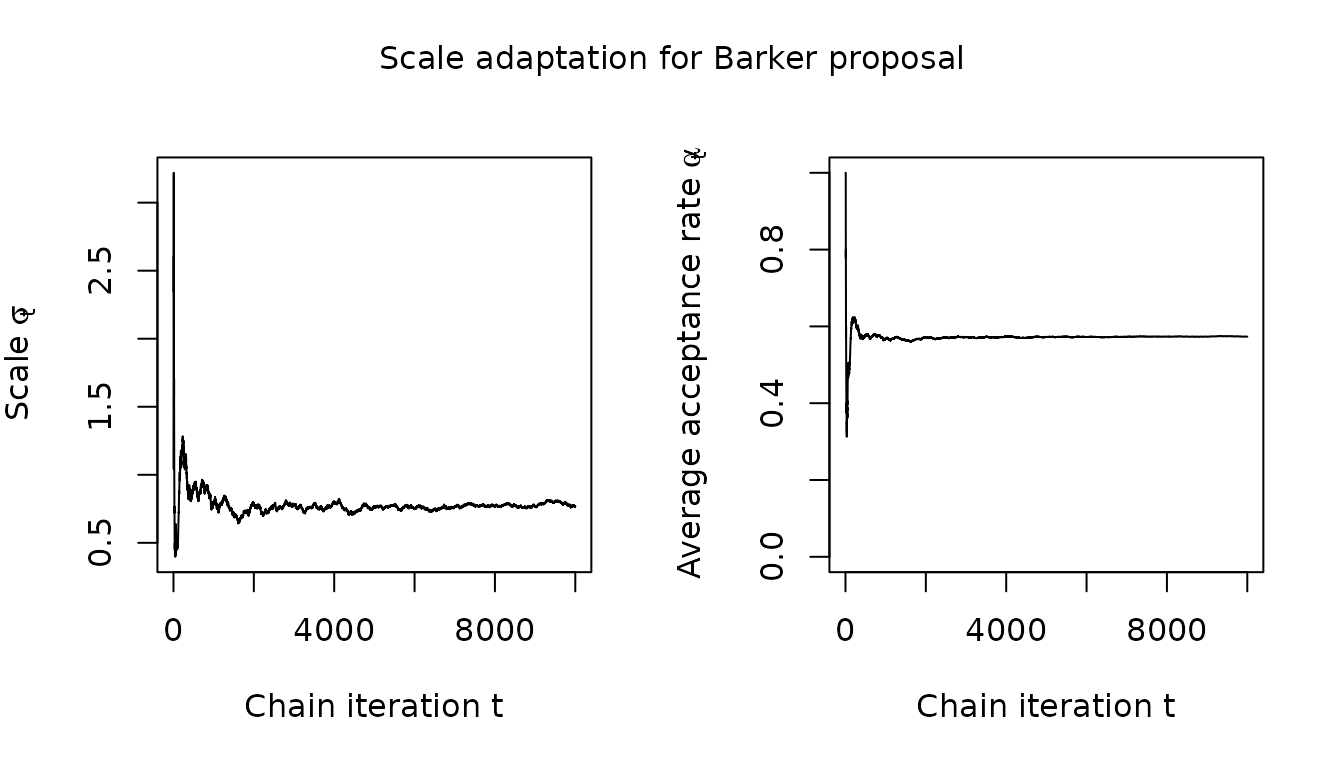
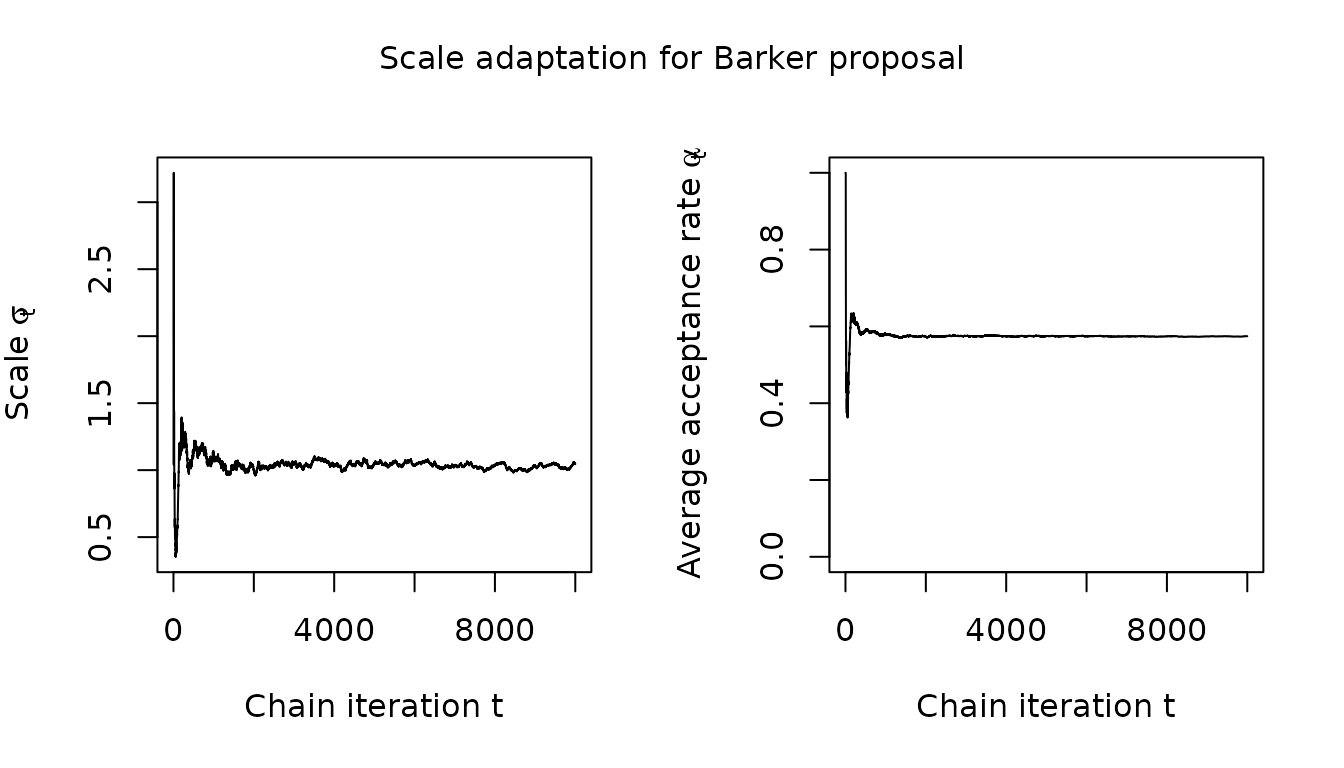
Deploying to gh-pages from @ UCL/rmcmc@4996fa3d6f669b66afa51b1e190640ad4b7b5a02 🚀

diff --git a/articles/barker-proposal.html b/articles/barker-proposal.html
@@ -237,7 +237,7 @@ probability of the main chain iterations as follows:</p>
 <div class="sourceCode" id="cb9"><pre class="downlit sourceCode r">
 <code class="sourceCode R"><span><span class="va">mean_accept_prob</span> <span class="op">&lt;-</span> <span class="fu"><a href="https://rdrr.io/r/base/mean.html" class="external-link">mean</a></span><span class="op">(</span><span class="va">barker_results</span><span class="op">$</span><span class="va">statistics</span><span class="op">[</span>, <span class="st">"accept_prob"</span><span class="op">]</span><span class="op">)</span></span>
 <span><span class="fu"><a href="https://rdrr.io/r/base/cat.html" class="external-link">cat</a></span><span class="op">(</span><span class="fu"><a href="https://rdrr.io/r/base/sprintf.html" class="external-link">sprintf</a></span><span class="op">(</span><span class="st">"Average acceptance probability is %.2f"</span>, <span class="va">mean_accept_prob</span><span class="op">)</span><span class="op">)</span></span>
-<span><span class="co">#&gt; Average acceptance probability is 0.57</span></span></code></pre></div>
+<span><span class="co">#&gt; Average acceptance probability is 0.54</span></span></code></pre></div>
 <p>This is close to the target acceptance rate of 0.574 indicating the
 scale adaptation worked as expected.</p>
 <p>We can also inspect the shape parameter of the proposal to check the
@@ -253,7 +253,7 @@ the (first few dimensions of the) adapted shape from the
 <span>  <span class="fu"><a href="https://rdrr.io/r/base/sprintf.html" class="external-link">sprintf</a></span><span class="op">(</span><span class="st">"True target scales: %s"</span>, <span class="fu"><a href="https://rdrr.io/r/base/toString.html" class="external-link">toString</a></span><span class="op">(</span><span class="va">scales</span><span class="op">[</span><span class="fl">1</span><span class="op">:</span><span class="va">clipped_dimension</span><span class="op">]</span><span class="op">)</span><span class="op">)</span>,</span>
 <span>  sep <span class="op">=</span> <span class="st">"\n"</span></span>
 <span><span class="op">)</span></span>
-<span><span class="co">#&gt; Adapter scale est.: 0.00837397174060859, 0.903666144812827, 0.743247392562424, 0.867223071521973, 0.93934619853388</span></span>
+<span><span class="co">#&gt; Adapter scale est.: 0.00922080029766185, 0.995077611400515, 0.975164196791254, 0.938742004951002, 0.959131700160354</span></span>
 <span><span class="co">#&gt; True target scales: 0.01, 1, 1, 1, 1</span></span></code></pre></div>
 <p>Again adaptation appears to have been successful with the adapted
 shape close to the true target scales.</p>
@@ -287,19 +287,19 @@ of summary statistics and diagnostic measures for each variable.</p>
 <div class="sourceCode" id="cb12"><pre class="downlit sourceCode r">
 <code class="sourceCode R"><span><span class="fu"><a href="https://mc-stan.org/posterior/reference/draws_summary.html" class="external-link">summarize_draws</a></span><span class="op">(</span><span class="va">barker_results</span><span class="op">$</span><span class="va">traces</span><span class="op">)</span></span>
 <span><span class="co">#&gt; <span style="color: #949494;"># A tibble: 11 × 10</span></span></span>
-<span><span class="co">#&gt;    variable         mean   median      sd     mad      q5     q95  rhat ess_bulk</span></span>
-<span><span class="co">#&gt;    <span style="color: #949494; font-style: italic;">&lt;chr&gt;</span>           <span style="color: #949494; font-style: italic;">&lt;dbl&gt;</span>    <span style="color: #949494; font-style: italic;">&lt;dbl&gt;</span>   <span style="color: #949494; font-style: italic;">&lt;dbl&gt;</span>   <span style="color: #949494; font-style: italic;">&lt;dbl&gt;</span>   <span style="color: #949494; font-style: italic;">&lt;dbl&gt;</span>   <span style="color: #949494; font-style: italic;">&lt;dbl&gt;</span> <span style="color: #949494; font-style: italic;">&lt;dbl&gt;</span>    <span style="color: #949494; font-style: italic;">&lt;dbl&gt;</span></span></span>
-<span><span class="co">#&gt; <span style="color: #BCBCBC;"> 1</span> position1     2.56<span style="color: #949494;">e</span><span style="color: #BB0000;">-5</span>  8.66<span style="color: #949494;">e</span><span style="color: #BB0000;">-5</span> 0.008<span style="text-decoration: underline;">68</span> 0.008<span style="text-decoration: underline;">92</span> -<span style="color: #BB0000;">0.014</span><span style="color: #BB0000; text-decoration: underline;">6</span>  0.014<span style="text-decoration: underline;">2</span>  1.00     964.</span></span>
-<span><span class="co">#&gt; <span style="color: #BCBCBC;"> 2</span> position2     2.33<span style="color: #949494;">e</span><span style="color: #BB0000;">-2</span>  4.24<span style="color: #949494;">e</span><span style="color: #BB0000;">-2</span> 0.868   0.904   -<span style="color: #BB0000;">1.40</span>    1.46    1.00    <span style="text-decoration: underline;">1</span>031.</span></span>
-<span><span class="co">#&gt; <span style="color: #BCBCBC;"> 3</span> position3     5.41<span style="color: #949494;">e</span><span style="color: #BB0000;">-2</span>  4.50<span style="color: #949494;">e</span><span style="color: #BB0000;">-2</span> 0.843   0.844   -<span style="color: #BB0000;">1.31</span>    1.43    1.00     685.</span></span>
-<span><span class="co">#&gt; <span style="color: #BCBCBC;"> 4</span> position4    -<span style="color: #BB0000;">1.91</span><span style="color: #949494;">e</span><span style="color: #BB0000;">-2</span> -<span style="color: #BB0000;">2.46</span><span style="color: #949494;">e</span><span style="color: #BB0000;">-2</span> 0.879   0.899   -<span style="color: #BB0000;">1.45</span>    1.43    1.00     831.</span></span>
-<span><span class="co">#&gt; <span style="color: #BCBCBC;"> 5</span> position5     2.52<span style="color: #949494;">e</span><span style="color: #BB0000;">-2</span>  2.64<span style="color: #949494;">e</span><span style="color: #BB0000;">-2</span> 0.883   0.909   -<span style="color: #BB0000;">1.42</span>    1.49    1.00    <span style="text-decoration: underline;">1</span>188.</span></span>
-<span><span class="co">#&gt; <span style="color: #BCBCBC;"> 6</span> position6     2.39<span style="color: #949494;">e</span><span style="color: #BB0000;">-2</span>  1.45<span style="color: #949494;">e</span><span style="color: #BB0000;">-2</span> 0.872   0.910   -<span style="color: #BB0000;">1.42</span>    1.45    1.00     717.</span></span>
-<span><span class="co">#&gt; <span style="color: #BCBCBC;"> 7</span> position7     2.02<span style="color: #949494;">e</span><span style="color: #BB0000;">-2</span>  2.62<span style="color: #949494;">e</span><span style="color: #BB0000;">-2</span> 0.844   0.853   -<span style="color: #BB0000;">1.39</span>    1.40    1.00     798.</span></span>
-<span><span class="co">#&gt; <span style="color: #BCBCBC;"> 8</span> position8    -<span style="color: #BB0000;">2.68</span><span style="color: #949494;">e</span><span style="color: #BB0000;">-2</span> -<span style="color: #BB0000;">3.56</span><span style="color: #949494;">e</span><span style="color: #BB0000;">-2</span> 0.852   0.856   -<span style="color: #BB0000;">1.44</span>    1.40    1.00     700.</span></span>
-<span><span class="co">#&gt; <span style="color: #BCBCBC;"> 9</span> position9    -<span style="color: #BB0000;">4.67</span><span style="color: #949494;">e</span><span style="color: #BB0000;">-2</span> -<span style="color: #BB0000;">4.58</span><span style="color: #949494;">e</span><span style="color: #BB0000;">-2</span> 0.870   0.902   -<span style="color: #BB0000;">1.45</span>    1.37    1.00    <span style="text-decoration: underline;">1</span>088.</span></span>
-<span><span class="co">#&gt; <span style="color: #BCBCBC;">10</span> position10   -<span style="color: #BB0000;">3.19</span><span style="color: #949494;">e</span><span style="color: #BB0000;">-2</span> -<span style="color: #BB0000;">4.29</span><span style="color: #949494;">e</span><span style="color: #BB0000;">-2</span> 0.855   0.899   -<span style="color: #BB0000;">1.40</span>    1.36    1.00     927.</span></span>
-<span><span class="co">#&gt; <span style="color: #BCBCBC;">11</span> target_log_… -<span style="color: #BB0000;">3.73</span><span style="color: #949494;">e</span>+0 -<span style="color: #BB0000;">3.58</span><span style="color: #949494;">e</span>+0 1.47    1.45    -<span style="color: #BB0000;">6.43</span>   -<span style="color: #BB0000;">1.62</span>    1.00     994.</span></span>
+<span><span class="co">#&gt;    variable           mean   median     sd    mad      q5     q95  rhat ess_bulk</span></span>
+<span><span class="co">#&gt;    <span style="color: #949494; font-style: italic;">&lt;chr&gt;</span>             <span style="color: #949494; font-style: italic;">&lt;dbl&gt;</span>    <span style="color: #949494; font-style: italic;">&lt;dbl&gt;</span>  <span style="color: #949494; font-style: italic;">&lt;dbl&gt;</span>  <span style="color: #949494; font-style: italic;">&lt;dbl&gt;</span>   <span style="color: #949494; font-style: italic;">&lt;dbl&gt;</span>   <span style="color: #949494; font-style: italic;">&lt;dbl&gt;</span> <span style="color: #949494; font-style: italic;">&lt;dbl&gt;</span>    <span style="color: #949494; font-style: italic;">&lt;dbl&gt;</span></span></span>
+<span><span class="co">#&gt; <span style="color: #BCBCBC;"> 1</span> position1       1.63<span style="color: #949494;">e</span><span style="color: #BB0000;">-4</span>  3.51<span style="color: #949494;">e</span><span style="color: #BB0000;">-4</span> 0.010<span style="text-decoration: underline;">2</span> 0.010<span style="text-decoration: underline;">4</span> -<span style="color: #BB0000;">0.016</span><span style="color: #BB0000; text-decoration: underline;">6</span>  0.016<span style="text-decoration: underline;">9</span>  1.00    <span style="text-decoration: underline;">1</span>197.</span></span>
+<span><span class="co">#&gt; <span style="color: #BCBCBC;"> 2</span> position2      -<span style="color: #BB0000;">3.07</span><span style="color: #949494;">e</span><span style="color: #BB0000;">-2</span> -<span style="color: #BB0000;">9.21</span><span style="color: #949494;">e</span><span style="color: #BB0000;">-3</span> 1.01   0.990  -<span style="color: #BB0000;">1.72</span>    1.62    1.00    <span style="text-decoration: underline;">1</span>405.</span></span>
+<span><span class="co">#&gt; <span style="color: #BCBCBC;"> 3</span> position3       2.22<span style="color: #949494;">e</span><span style="color: #BB0000;">-2</span>  1.54<span style="color: #949494;">e</span><span style="color: #BB0000;">-2</span> 1.01   1.01   -<span style="color: #BB0000;">1.61</span>    1.64    1.00    <span style="text-decoration: underline;">1</span>191.</span></span>
+<span><span class="co">#&gt; <span style="color: #BCBCBC;"> 4</span> position4       2.13<span style="color: #949494;">e</span><span style="color: #BB0000;">-2</span>  1.25<span style="color: #949494;">e</span><span style="color: #BB0000;">-2</span> 1.02   1.04   -<span style="color: #BB0000;">1.68</span>    1.68    1.00    <span style="text-decoration: underline;">1</span>250.</span></span>
+<span><span class="co">#&gt; <span style="color: #BCBCBC;"> 5</span> position5       1.78<span style="color: #949494;">e</span><span style="color: #BB0000;">-2</span>  2.02<span style="color: #949494;">e</span><span style="color: #BB0000;">-2</span> 0.993  1.01   -<span style="color: #BB0000;">1.63</span>    1.62    1.00    <span style="text-decoration: underline;">1</span>370.</span></span>
+<span><span class="co">#&gt; <span style="color: #BCBCBC;"> 6</span> position6      -<span style="color: #BB0000;">2.23</span><span style="color: #949494;">e</span><span style="color: #BB0000;">-2</span> -<span style="color: #BB0000;">3.13</span><span style="color: #949494;">e</span><span style="color: #BB0000;">-2</span> 1.01   0.996  -<span style="color: #BB0000;">1.67</span>    1.65    1.00    <span style="text-decoration: underline;">1</span>157.</span></span>
+<span><span class="co">#&gt; <span style="color: #BCBCBC;"> 7</span> position7       2.99<span style="color: #949494;">e</span><span style="color: #BB0000;">-2</span>  4.19<span style="color: #949494;">e</span><span style="color: #BB0000;">-3</span> 1.00   1.01   -<span style="color: #BB0000;">1.59</span>    1.69    1.00    <span style="text-decoration: underline;">1</span>456.</span></span>
+<span><span class="co">#&gt; <span style="color: #BCBCBC;"> 8</span> position8       2.38<span style="color: #949494;">e</span><span style="color: #BB0000;">-2</span> -<span style="color: #BB0000;">4.45</span><span style="color: #949494;">e</span><span style="color: #BB0000;">-3</span> 1.02   1.01   -<span style="color: #BB0000;">1.63</span>    1.75    1.00    <span style="text-decoration: underline;">1</span>503.</span></span>
+<span><span class="co">#&gt; <span style="color: #BCBCBC;"> 9</span> position9      -<span style="color: #BB0000;">3.08</span><span style="color: #949494;">e</span><span style="color: #BB0000;">-2</span> -<span style="color: #BB0000;">3.23</span><span style="color: #949494;">e</span><span style="color: #BB0000;">-2</span> 1.01   1.02   -<span style="color: #BB0000;">1.67</span>    1.62    1.00    <span style="text-decoration: underline;">1</span>478.</span></span>
+<span><span class="co">#&gt; <span style="color: #BCBCBC;">10</span> position10      2.73<span style="color: #949494;">e</span><span style="color: #BB0000;">-2</span>  1.43<span style="color: #949494;">e</span><span style="color: #BB0000;">-2</span> 1.01   1.02   -<span style="color: #BB0000;">1.61</span>    1.67    1.00    <span style="text-decoration: underline;">1</span>482.</span></span>
+<span><span class="co">#&gt; <span style="color: #BCBCBC;">11</span> target_log_de… -<span style="color: #BB0000;">5.11</span><span style="color: #949494;">e</span>+0 -<span style="color: #BB0000;">4.71</span><span style="color: #949494;">e</span>+0 2.34   2.17   -<span style="color: #BB0000;">9.43</span>   -<span style="color: #BB0000;">2.00</span>    1.00    <span style="text-decoration: underline;">1</span>188.</span></span>
 <span><span class="co">#&gt; <span style="color: #949494;"># ℹ 1 more variable: ess_tail &lt;dbl&gt;</span></span></span></code></pre></div>
 <p>We can also first explicit convert the <code>traces</code> matrix to
 a <code>posterior</code> draws object using the
@@ -309,19 +309,19 @@ a <code>posterior</code> draws object using the
 <code class="sourceCode R"><span><span class="va">draws</span> <span class="op">&lt;-</span> <span class="fu"><a href="https://mc-stan.org/posterior/reference/draws_matrix.html" class="external-link">as_draws_matrix</a></span><span class="op">(</span><span class="va">barker_results</span><span class="op">$</span><span class="va">traces</span><span class="op">)</span></span>
 <span><span class="fu"><a href="https://rdrr.io/r/base/summary.html" class="external-link">summary</a></span><span class="op">(</span><span class="va">draws</span><span class="op">)</span></span>
 <span><span class="co">#&gt; <span style="color: #949494;"># A tibble: 11 × 10</span></span></span>
-<span><span class="co">#&gt;    variable         mean   median      sd     mad      q5     q95  rhat ess_bulk</span></span>
-<span><span class="co">#&gt;    <span style="color: #949494; font-style: italic;">&lt;chr&gt;</span>           <span style="color: #949494; font-style: italic;">&lt;dbl&gt;</span>    <span style="color: #949494; font-style: italic;">&lt;dbl&gt;</span>   <span style="color: #949494; font-style: italic;">&lt;dbl&gt;</span>   <span style="color: #949494; font-style: italic;">&lt;dbl&gt;</span>   <span style="color: #949494; font-style: italic;">&lt;dbl&gt;</span>   <span style="color: #949494; font-style: italic;">&lt;dbl&gt;</span> <span style="color: #949494; font-style: italic;">&lt;dbl&gt;</span>    <span style="color: #949494; font-style: italic;">&lt;dbl&gt;</span></span></span>
-<span><span class="co">#&gt; <span style="color: #BCBCBC;"> 1</span> position1     2.56<span style="color: #949494;">e</span><span style="color: #BB0000;">-5</span>  8.66<span style="color: #949494;">e</span><span style="color: #BB0000;">-5</span> 0.008<span style="text-decoration: underline;">68</span> 0.008<span style="text-decoration: underline;">92</span> -<span style="color: #BB0000;">0.014</span><span style="color: #BB0000; text-decoration: underline;">6</span>  0.014<span style="text-decoration: underline;">2</span>  1.00     964.</span></span>
-<span><span class="co">#&gt; <span style="color: #BCBCBC;"> 2</span> position2     2.33<span style="color: #949494;">e</span><span style="color: #BB0000;">-2</span>  4.24<span style="color: #949494;">e</span><span style="color: #BB0000;">-2</span> 0.868   0.904   -<span style="color: #BB0000;">1.40</span>    1.46    1.00    <span style="text-decoration: underline;">1</span>031.</span></span>
-<span><span class="co">#&gt; <span style="color: #BCBCBC;"> 3</span> position3     5.41<span style="color: #949494;">e</span><span style="color: #BB0000;">-2</span>  4.50<span style="color: #949494;">e</span><span style="color: #BB0000;">-2</span> 0.843   0.844   -<span style="color: #BB0000;">1.31</span>    1.43    1.00     685.</span></span>
-<span><span class="co">#&gt; <span style="color: #BCBCBC;"> 4</span> position4    -<span style="color: #BB0000;">1.91</span><span style="color: #949494;">e</span><span style="color: #BB0000;">-2</span> -<span style="color: #BB0000;">2.46</span><span style="color: #949494;">e</span><span style="color: #BB0000;">-2</span> 0.879   0.899   -<span style="color: #BB0000;">1.45</span>    1.43    1.00     831.</span></span>
-<span><span class="co">#&gt; <span style="color: #BCBCBC;"> 5</span> position5     2.52<span style="color: #949494;">e</span><span style="color: #BB0000;">-2</span>  2.64<span style="color: #949494;">e</span><span style="color: #BB0000;">-2</span> 0.883   0.909   -<span style="color: #BB0000;">1.42</span>    1.49    1.00    <span style="text-decoration: underline;">1</span>188.</span></span>
-<span><span class="co">#&gt; <span style="color: #BCBCBC;"> 6</span> position6     2.39<span style="color: #949494;">e</span><span style="color: #BB0000;">-2</span>  1.45<span style="color: #949494;">e</span><span style="color: #BB0000;">-2</span> 0.872   0.910   -<span style="color: #BB0000;">1.42</span>    1.45    1.00     717.</span></span>
-<span><span class="co">#&gt; <span style="color: #BCBCBC;"> 7</span> position7     2.02<span style="color: #949494;">e</span><span style="color: #BB0000;">-2</span>  2.62<span style="color: #949494;">e</span><span style="color: #BB0000;">-2</span> 0.844   0.853   -<span style="color: #BB0000;">1.39</span>    1.40    1.00     798.</span></span>
-<span><span class="co">#&gt; <span style="color: #BCBCBC;"> 8</span> position8    -<span style="color: #BB0000;">2.68</span><span style="color: #949494;">e</span><span style="color: #BB0000;">-2</span> -<span style="color: #BB0000;">3.56</span><span style="color: #949494;">e</span><span style="color: #BB0000;">-2</span> 0.852   0.856   -<span style="color: #BB0000;">1.44</span>    1.40    1.00     700.</span></span>
-<span><span class="co">#&gt; <span style="color: #BCBCBC;"> 9</span> position9    -<span style="color: #BB0000;">4.67</span><span style="color: #949494;">e</span><span style="color: #BB0000;">-2</span> -<span style="color: #BB0000;">4.58</span><span style="color: #949494;">e</span><span style="color: #BB0000;">-2</span> 0.870   0.902   -<span style="color: #BB0000;">1.45</span>    1.37    1.00    <span style="text-decoration: underline;">1</span>088.</span></span>
-<span><span class="co">#&gt; <span style="color: #BCBCBC;">10</span> position10   -<span style="color: #BB0000;">3.19</span><span style="color: #949494;">e</span><span style="color: #BB0000;">-2</span> -<span style="color: #BB0000;">4.29</span><span style="color: #949494;">e</span><span style="color: #BB0000;">-2</span> 0.855   0.899   -<span style="color: #BB0000;">1.40</span>    1.36    1.00     927.</span></span>
-<span><span class="co">#&gt; <span style="color: #BCBCBC;">11</span> target_log_… -<span style="color: #BB0000;">3.73</span><span style="color: #949494;">e</span>+0 -<span style="color: #BB0000;">3.58</span><span style="color: #949494;">e</span>+0 1.47    1.45    -<span style="color: #BB0000;">6.43</span>   -<span style="color: #BB0000;">1.62</span>    1.00     994.</span></span>
+<span><span class="co">#&gt;    variable           mean   median     sd    mad      q5     q95  rhat ess_bulk</span></span>
+<span><span class="co">#&gt;    <span style="color: #949494; font-style: italic;">&lt;chr&gt;</span>             <span style="color: #949494; font-style: italic;">&lt;dbl&gt;</span>    <span style="color: #949494; font-style: italic;">&lt;dbl&gt;</span>  <span style="color: #949494; font-style: italic;">&lt;dbl&gt;</span>  <span style="color: #949494; font-style: italic;">&lt;dbl&gt;</span>   <span style="color: #949494; font-style: italic;">&lt;dbl&gt;</span>   <span style="color: #949494; font-style: italic;">&lt;dbl&gt;</span> <span style="color: #949494; font-style: italic;">&lt;dbl&gt;</span>    <span style="color: #949494; font-style: italic;">&lt;dbl&gt;</span></span></span>
+<span><span class="co">#&gt; <span style="color: #BCBCBC;"> 1</span> position1       1.63<span style="color: #949494;">e</span><span style="color: #BB0000;">-4</span>  3.51<span style="color: #949494;">e</span><span style="color: #BB0000;">-4</span> 0.010<span style="text-decoration: underline;">2</span> 0.010<span style="text-decoration: underline;">4</span> -<span style="color: #BB0000;">0.016</span><span style="color: #BB0000; text-decoration: underline;">6</span>  0.016<span style="text-decoration: underline;">9</span>  1.00    <span style="text-decoration: underline;">1</span>197.</span></span>
+<span><span class="co">#&gt; <span style="color: #BCBCBC;"> 2</span> position2      -<span style="color: #BB0000;">3.07</span><span style="color: #949494;">e</span><span style="color: #BB0000;">-2</span> -<span style="color: #BB0000;">9.21</span><span style="color: #949494;">e</span><span style="color: #BB0000;">-3</span> 1.01   0.990  -<span style="color: #BB0000;">1.72</span>    1.62    1.00    <span style="text-decoration: underline;">1</span>405.</span></span>
+<span><span class="co">#&gt; <span style="color: #BCBCBC;"> 3</span> position3       2.22<span style="color: #949494;">e</span><span style="color: #BB0000;">-2</span>  1.54<span style="color: #949494;">e</span><span style="color: #BB0000;">-2</span> 1.01   1.01   -<span style="color: #BB0000;">1.61</span>    1.64    1.00    <span style="text-decoration: underline;">1</span>191.</span></span>
+<span><span class="co">#&gt; <span style="color: #BCBCBC;"> 4</span> position4       2.13<span style="color: #949494;">e</span><span style="color: #BB0000;">-2</span>  1.25<span style="color: #949494;">e</span><span style="color: #BB0000;">-2</span> 1.02   1.04   -<span style="color: #BB0000;">1.68</span>    1.68    1.00    <span style="text-decoration: underline;">1</span>250.</span></span>
+<span><span class="co">#&gt; <span style="color: #BCBCBC;"> 5</span> position5       1.78<span style="color: #949494;">e</span><span style="color: #BB0000;">-2</span>  2.02<span style="color: #949494;">e</span><span style="color: #BB0000;">-2</span> 0.993  1.01   -<span style="color: #BB0000;">1.63</span>    1.62    1.00    <span style="text-decoration: underline;">1</span>370.</span></span>
+<span><span class="co">#&gt; <span style="color: #BCBCBC;"> 6</span> position6      -<span style="color: #BB0000;">2.23</span><span style="color: #949494;">e</span><span style="color: #BB0000;">-2</span> -<span style="color: #BB0000;">3.13</span><span style="color: #949494;">e</span><span style="color: #BB0000;">-2</span> 1.01   0.996  -<span style="color: #BB0000;">1.67</span>    1.65    1.00    <span style="text-decoration: underline;">1</span>157.</span></span>
+<span><span class="co">#&gt; <span style="color: #BCBCBC;"> 7</span> position7       2.99<span style="color: #949494;">e</span><span style="color: #BB0000;">-2</span>  4.19<span style="color: #949494;">e</span><span style="color: #BB0000;">-3</span> 1.00   1.01   -<span style="color: #BB0000;">1.59</span>    1.69    1.00    <span style="text-decoration: underline;">1</span>456.</span></span>
+<span><span class="co">#&gt; <span style="color: #BCBCBC;"> 8</span> position8       2.38<span style="color: #949494;">e</span><span style="color: #BB0000;">-2</span> -<span style="color: #BB0000;">4.45</span><span style="color: #949494;">e</span><span style="color: #BB0000;">-3</span> 1.02   1.01   -<span style="color: #BB0000;">1.63</span>    1.75    1.00    <span style="text-decoration: underline;">1</span>503.</span></span>
+<span><span class="co">#&gt; <span style="color: #BCBCBC;"> 9</span> position9      -<span style="color: #BB0000;">3.08</span><span style="color: #949494;">e</span><span style="color: #BB0000;">-2</span> -<span style="color: #BB0000;">3.23</span><span style="color: #949494;">e</span><span style="color: #BB0000;">-2</span> 1.01   1.02   -<span style="color: #BB0000;">1.67</span>    1.62    1.00    <span style="text-decoration: underline;">1</span>478.</span></span>
+<span><span class="co">#&gt; <span style="color: #BCBCBC;">10</span> position10      2.73<span style="color: #949494;">e</span><span style="color: #BB0000;">-2</span>  1.43<span style="color: #949494;">e</span><span style="color: #BB0000;">-2</span> 1.01   1.02   -<span style="color: #BB0000;">1.61</span>    1.67    1.00    <span style="text-decoration: underline;">1</span>482.</span></span>
+<span><span class="co">#&gt; <span style="color: #BCBCBC;">11</span> target_log_de… -<span style="color: #BB0000;">5.11</span><span style="color: #949494;">e</span>+0 -<span style="color: #BB0000;">4.71</span><span style="color: #949494;">e</span>+0 2.34   2.17   -<span style="color: #BB0000;">9.43</span>   -<span style="color: #BB0000;">2.00</span>    1.00    <span style="text-decoration: underline;">1</span>188.</span></span>
 <span><span class="co">#&gt; <span style="color: #949494;"># ℹ 1 more variable: ess_tail &lt;dbl&gt;</span></span></span></code></pre></div>
 <p>The draws object can also be manipulated and subsetted with various
 functions provided by <code>posterior</code>. For example the <a href="https://mc-stan.org/posterior/reference/extract_variable.html" class="external-link"><code>extract_variable</code>
@@ -337,7 +337,7 @@ we could do the following</p>
 <span>    <span class="fu"><a href="https://mc-stan.org/posterior/reference/ess_mean.html" class="external-link">ess_mean</a></span><span class="op">(</span><span class="fu"><a href="https://mc-stan.org/posterior/reference/extract_variable.html" class="external-link">extract_variable</a></span><span class="op">(</span><span class="va">draws</span>, <span class="st">"target_log_density"</span><span class="op">)</span><span class="op">)</span></span>
 <span>  <span class="op">)</span></span>
 <span><span class="op">)</span></span>
-<span><span class="co">#&gt; Effective sample size of mean(target_log_density) is 983</span></span></code></pre></div>
+<span><span class="co">#&gt; Effective sample size of mean(target_log_density) is 1206</span></span></code></pre></div>
 </div>
 <div class="section level2">
 <h2 id="sampling-using-a-langevin-proposal">Sampling using a Langevin proposal<a class="anchor" aria-label="anchor" href="#sampling-using-a-langevin-proposal"></a>
